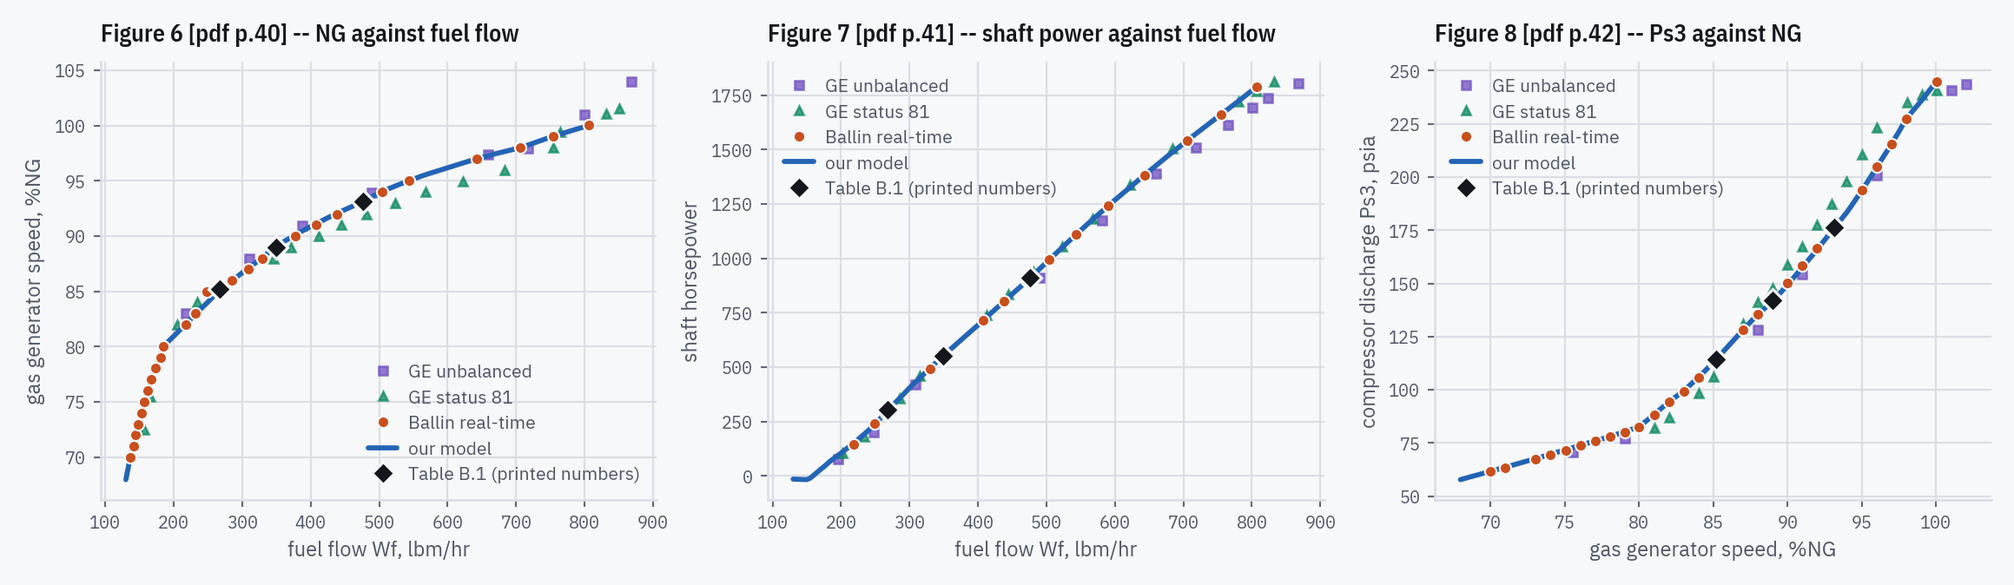
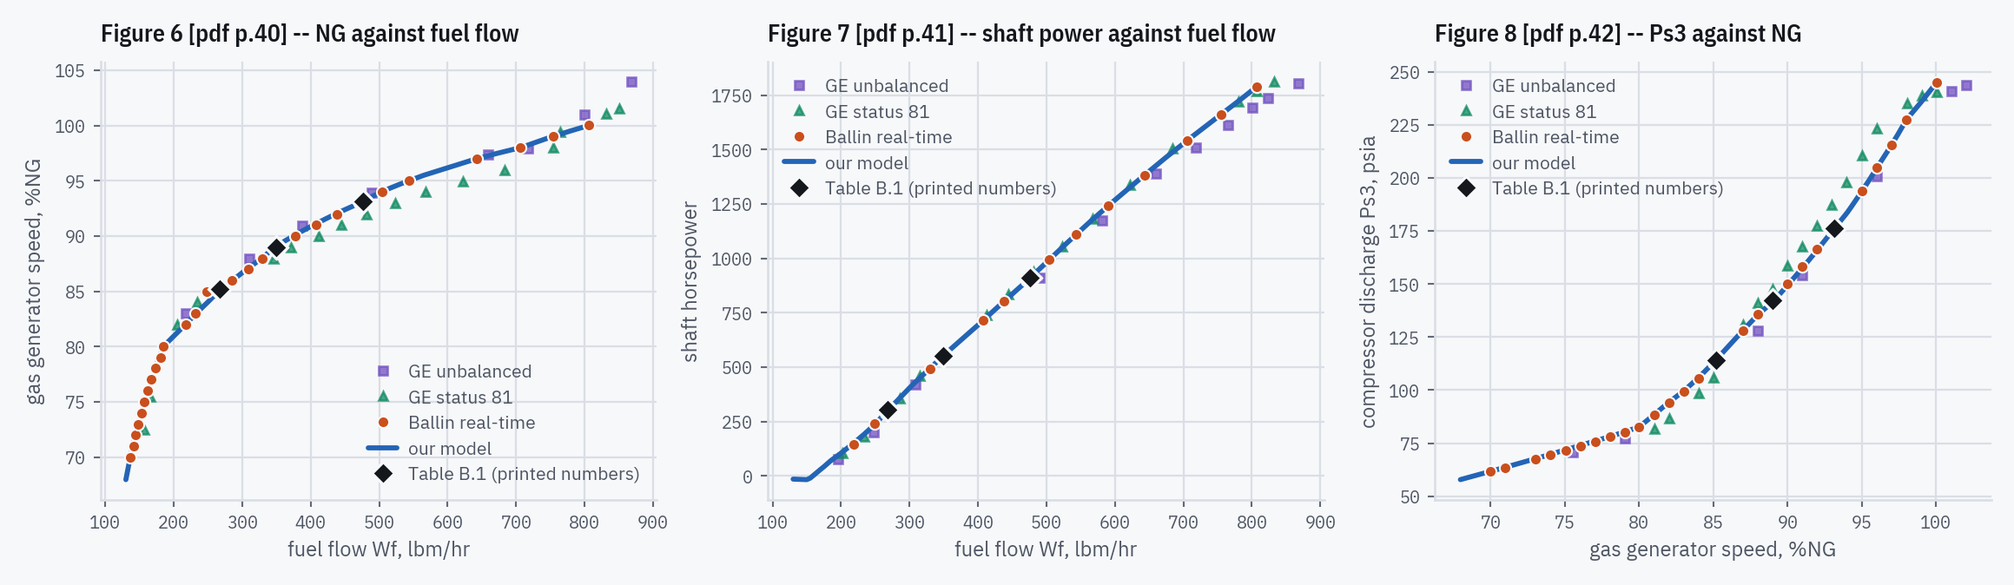
#77: f1 extends its top speed line by 0.1 point before it clamps
Ballin's own Figure 6 line ends at 806.30 lbm/hr and 100.0036 %NG, on Figure
A1's top line ("SYMBOL 11: 100% NGC", pdf p.56). Our trim reaches that line
at 806.20 lbm/hr; above it a clamped f1 invents equilibria, so the trim
refused the point. Last night's re-digitization moved it 806.16 -> 806.22 ->
806.30 lbm/hr, each step inside its read error, from just inside our reach
to just outside.

By the owner's decision, f1 (and f1_as_printed) now extend their top two
speed lines at constant beta up to maps.F1_TOP_ALLOWANCE_PCT = 0.1 point
above 100 %, then clamp as before; no other table does. Reads inside the
allowance count as "f1:above_top_line" (reported by extrapolated_tables,
accepted by trustworthy); trim.solve's speed bound moves with it. The point
needs 0.0018 point: ours 100.0018 vs Ballin's 100.0036 %NG.

Measured:
- tools/model_digest.py: every shared output of 10,228 bit-identical (new
  entries only for the top_allowance field and the imported Final).
- Figure 6: 28 -> 29 of 29 points, rms 0.2354 -> 0.2313 %NG, worst -1.018
  unchanged. Figure 7: 14 -> 15 of 15, rms 0.687 -> 0.664 %. Figure 8: 26 ->
  27 of 27, rms 0.266 -> 0.261 %.
- The site's operating line stays on the printed map (report.py skips
  f1:above_top_line trims), so its 100 %NG ceiling text still holds.

test_we_now_track_figure_6_across_its_whole_range now requires all points;
a new test_maps test pins the allowance's edges and that the fuel control's
[…]

diff --git a/site/index.html b/site/index.html
@@ -505,6 +505,15 @@ the metering valve:  WFMV = HMUSEL &times; PS3L.</div>
       past its last knot. Against the printed table it wins on some printed surfaces and loses
       on others, so the scores do not decide it. Kept because a scheme that invents
       extrapolation is wrong whatever it scores.</td></tr>
+    <tr><th scope="row">Speed above the compressor map
+      <span class="sub">f1, Figure A1</span></th>
+      <td>The top speed line is 100&nbsp;% NGC [pdf p.56], and &ldquo;the maximum gas generator
+      speed for which the model is valid is 100 percent&rdquo; [pdf p.39].</td>
+      <td><strong>A departure, closed by decision (#77).</strong> f1 extends its top two lines
+      a tenth of a point past 100&nbsp;% before it clamps; no other table does. Ballin&rsquo;s
+      own Figure&nbsp;6 line ends on that top line, at a fuel flow where ours has just reached
+      it, so without the allowance the top points of Figures&nbsp;6&ndash;8 could not be
+      compared. Nothing else moves: every other model output is bit-identical.</td></tr>
     <tr><th scope="row">Combustor efficiency
       <span class="sub">f6, Figure A6</span></th>
       <td>A curve with a visible slope, and no numeric table.</td>
@@ -627,7 +636,7 @@ the metering valve:  WFMV = HMUSEL &times; PS3L.</div>
   <div class="scroll"><table>
     <thead><tr><th scope="col">Figure</th><th scope="col">Points scored</th>
       <th scope="col">mean</th><th scope="col">rms</th><th scope="col">worst</th></tr></thead>
-    <tbody><tr><th scope="row">Figure 6<span class="sub">NG against fuel flow. Deviation in %NG points, not percent &mdash; an absolute difference on a speed already expressed as a percentage.</span></th><td class="mono">28 of 29</td><td class="mono">-0.008</td><td class="mono">0.235</td><td class="mono strong">-1.018 %NG</td></tr><tr><th scope="row">Figure 7<span class="sub">Shaft power against fuel flow. The low-power end is the worst, and it is the same end where Table B.1 and this figure disagree with <em>each other</em> by 1.3 %.</span></th><td class="mono">14 of 15</td><td class="mono">0.194</td><td class="mono">0.687</td><td class="mono strong">+2.175 %</td></tr><tr><th scope="row">Figure 8<span class="sub">Ps3 against NG. No fuel flow appears in it, so it cannot be rescued by a compensating fuel-path error.</span></th><td class="mono">26 of 27</td><td class="mono">0.067</td><td class="mono">0.266</td><td class="mono strong">+0.643 %</td></tr></tbody>
+    <tbody><tr><th scope="row">Figure 6<span class="sub">NG against fuel flow. Deviation in %NG points, not percent &mdash; an absolute difference on a speed already expressed as a percentage.</span></th><td class="mono">29 of 29</td><td class="mono">-0.008</td><td class="mono">0.231</td><td class="mono strong">-1.018 %NG</td></tr><tr><th scope="row">Figure 7<span class="sub">Shaft power against fuel flow. The low-power end is the worst, and it is the same end where Table B.1 and this figure disagree with <em>each other</em> by 1.3 %.</span></th><td class="mono">15 of 15</td><td class="mono">0.177</td><td class="mono">0.664</td><td class="mono strong">+2.175 %</td></tr><tr><th scope="row">Figure 8<span class="sub">Ps3 against NG. No fuel flow appears in it, so it cannot be rescued by a compensating fuel-path error.</span></th><td class="mono">27 of 27</td><td class="mono">0.066</td><td class="mono">0.261</td><td class="mono strong">+0.643 %</td></tr></tbody>
   </table></div>
   <div class="note-box"><h3>Where the report disagrees with itself</h3>
   <p>Table B.1 and Figures&nbsp;6&ndash;7 describe the same three operating points. Table B.1
@@ -726,7 +735,7 @@ the metering valve:  WFMV = HMUSEL &times; PS3L.</div>
 
 <section id="s9">
   <div class="shead"><span class="snum">9</span><h2>What is still open</h2>
-    <span class="eyebrow">2 open &middot; 0 partly closed &middot; 72 logged in total</span></div>
+    <span class="eyebrow">2 open &middot; 0 partly closed &middot; 73 logged in total</span></div>
   <div class="col">
   <p>Anything the report does not answer goes into a ledger,
   <code>docs/notes/open-questions.md</code>, rather than into the code as a guess. These are the

diff --git a/site/template.html b/site/template.html
@@ -510,6 +510,15 @@ the metering valve:  WFMV = HMUSEL &times; PS3L.</div>
       past its last knot. Against the printed table it wins on some printed surfaces and loses
       on others, so the scores do not decide it. Kept because a scheme that invents
       extrapolation is wrong whatever it scores.</td></tr>
+    <tr><th scope="row">Speed above the compressor map
+      <span class="sub">f1, Figure A1</span></th>
+      <td>The top speed line is 100&nbsp;% NGC [pdf p.56], and &ldquo;the maximum gas generator
+      speed for which the model is valid is 100 percent&rdquo; [pdf p.39].</td>
+      <td><strong>A departure, closed by decision (#77).</strong> f1 extends its top two lines
+      a tenth of a point past 100&nbsp;% before it clamps; no other table does. Ballin&rsquo;s
+      own Figure&nbsp;6 line ends on that top line, at a fuel flow where ours has just reached
+      it, so without the allowance the top points of Figures&nbsp;6&ndash;8 could not be
+      compared. Nothing else moves: every other model output is bit-identical.</td></tr>
     <tr><th scope="row">Combustor efficiency
       <span class="sub">f6, Figure A6</span></th>
       <td>A curve with a visible slope, and no numeric table.</td>

diff --git a/src/t700/maps.py b/src/t700/maps.py
@@ -21,6 +21,7 @@ from contextlib import contextmanager
 from dataclasses import dataclass, field
 from functools import cache
 from pathlib import Path
+from typing import Final
 
 import numpy as np
 
@@ -217,6 +218,9 @@ class SpeedMap:
     params: np.ndarray  # the parameter value of each line, ascending
     lines: list[Curve] = field(default_factory=list)
     source: str = ""
+    top_allowance: float = 0.0
+    """How far above the top line the top two lines are extended before the parameter
+    clamps. Zero for every map but `f1` (`F1_TOP_ALLOWANCE_PCT`, #77)."""
 
     def __post_init__(self) -> None:
         self.params.flags.writeable = False  # see Curve.__post_init__
@@ -224,7 +228,9 @@ class SpeedMap:
         self._pl: list[float] = self.params.tolist()
         self._plo: float = self._pl[0]
         self._phi: float = self._pl[-1]
+        self._top: float = self._phi + self.top_allowance
         self._param_key: str = f"{self.name}:parameter"
+        self._above_key: str = f"{self.name}:above_top_line"
         self._beta_grid: bool = len({line.x.size for line in self.lines}) == 1
 
     @property
@@ -248,20 +254,26 @@ class SpeedMap:
             )
         lo = self._plo
         hi = self._phi
-        if pq < lo or pq > hi:
-            _clamps[self._param_key] += 1
-        p = lo if pq < lo else (hi if pq > hi else float(pq))
-
         pl = self._pl
-        j = bisect_left(pl, p)
-        if j <= 0:
-            return float(self.lines[0](xq))
-        if j >= len(pl):
-            return float(self.lines[-1](xq))
-
-        p0 = pl[j - 1]
-        p1 = pl[j]
-        w = 0.0 if p1 == p0 else (p - p0) / (p1 - p0)
+        if hi < pq <= self._top:
+            # Inside the allowance: the top two lines, extended at constant beta (w > 1).
+            # Counted under its own key, which `extrapolated_tables` reports and
+            # `TrimResult.on_data` accepts.
+            _clamps[self._above_key] += 1
+            j = len(pl) - 1
+            w = (pq - pl[j - 1]) / (pl[j] - pl[j - 1])
+        else:
+            if pq < lo or pq > hi:
+                _clamps[self._param_key] += 1
+            p = lo if pq < lo else (hi if pq > hi else float(pq))
+            j = bisect_left(pl, p)
+            if j <= 0:
+                return float(self.lines[0](xq))
+            if j >= len(pl):
+                return float(self.lines[-1](xq))
+            p0 = pl[j - 1]
+            p1 = pl[j]
+            w = 0.0 if p1 == p0 else (p - p0) / (p1 - p0)
 
         if not self._beta_grid:  # unequal beta grids: no correspondence to interpolate on
             z0 = float(self.lines[j - 1](xq))
@@ -308,6 +320,7 @@ def load_speed_map(
     ycol: str,
     phys: Physics | None = None,
     directory: Path | None = None,
+    top_allowance: float = 0.0,
 ) -> SpeedMap:
     """Load a 2-D map whose rows are grouped by a parameter column.
 
@@ -330,7 +343,7 @@ def load_speed_map(
         lines.append(line)
     if phys is not None:
         CONDITIONING[name] = moved
-    return SpeedMap(name=name, params=params, lines=lines, source=src)
+    return SpeedMap(name=name, params=params, lines=lines, source=src, top_allowance=top_allowance)
 
 
 # --------------------------------------------------------------------------- physical conditioning
@@ -441,6 +454,15 @@ def load_curve(
 # Each loader is `functools.cache`d: the read-only tables load once.
 
 
+F1_TOP_ALLOWANCE_PCT: Final = 0.1
+"""Points of corrected speed above its 100 % top line that `f1` extrapolates before it
+clamps. Ours, not the report's (#77): Figure A1 stops at 100 % NGC [pdf p.56] and the model
+is valid to 100 percent [pdf p.39], but Ballin's own Figure 6 line ends on that top line at a
+fuel flow ours reaches the line just below, and above it a clamped `f1` invents equilibria
+(`TrimResult.on_data`). Fifty times what that point needs; a twentieth of the spacing of
+the top two printed lines."""
+
+
 @cache
 def f1() -> SpeedMap:
     """Compressor corrected mass flow, WA2c = f1(Ps3/P2, NGc). [pdf p.22, Eq. 7; Fig. A1]
@@ -466,6 +488,7 @@ def f1() -> SpeedMap:
             "reason it is applied to the raw one; the shape-preserving fit cannot "
             "introduce a rise the anchors do not have, so this conditions nothing.",
         ),
+        top_allowance=F1_TOP_ALLOWANCE_PCT,
     )
 
 
@@ -494,6 +517,7 @@ def f1_as_printed() -> SpeedMap:
             "digitized map already satisfies it at every one of 40 sampled ratios; "
             "`tests/test_maps.py` asserts that rather than conditioning it away.",
         ),
+        top_allowance=F1_TOP_ALLOWANCE_PCT,
     )
 
 

diff --git a/validation/test_steady_sweeps.py b/validation/test_steady_sweeps.py
@@ -117,19 +117,17 @@ def test_figure_7_shaft_power_tracks_except_at_the_lowest_power():
 
 
 def test_we_now_track_figure_6_across_its_whole_range():
-    """Figure 6's NG against fuel flow, over all its points but at most one.
+    """Figure 6's NG against fuel flow, over every one of its points.
 
     Trap: pdf p.40's frames are faint and tilted, and a digitizer that finds a frame by row
     fill anchors the axis on the denser caption instead, reading every speed high; that was
-    the whole of #46's low-power half (#64). One unreachable point is tolerated because
-    `f1`'s 100 % top speed line is a real boundary.
+    the whole of #46's low-power half (#64). Ballin's top point sits on `f1`'s 100 % top
+    line, which ours reaches at a hair less fuel; `maps.F1_TOP_ALLOWANCE_PCT` covers it (#77).
     """
     x, y = read_reference("fig06_realtime.csv", "wf_pph", "ng_pct")
     got = _ladder(x)
     missing = [v for v in x if v not in got]
-    assert len(missing) <= 1, f"more of Figure 6 is now unreachable: {missing}"
-    if missing:
-        assert missing[0] > 800.0, f"the unreachable point moved down to {missing[0]:.0f} lb/hr"
+    assert not missing, f"part of Figure 6 is now unreachable: {missing}"
     assert _ladder([800.0])[800.0]["ng_pct"] > 99.5, "we should still reach ~100 %NG"
 
     pairs = [(k, got[k]["ng_pct"] - v) for k, v in zip(x, y, strict=True) if k in got]

diff --git a/src/t700/trim.py b/src/t700/trim.py
@@ -50,7 +50,8 @@ class TrimResult:
         residual stops depending on the state, and Newton can drive it to zero where the
         model means nothing. `f1:parameter` (corrected speed itself off the map) is the
         decisive clamp but not the only one: other tables may still be extrapolated, see
-        `extrapolated_tables` and `fully_on_data`.
+        `extrapolated_tables` and `fully_on_data`. `f1:above_top_line`, a read inside
+        `maps.F1_TOP_ALLOWANCE_PCT`, is an extrapolation, not a clamp (#77).
         """
         return "f1:parameter" not in self.clamps_at_solution
 
@@ -196,8 +197,10 @@ def solve(
 
     # Clamps are counted in `maps.clamp_scope`s, so a caller's enclosing count survives.
     # The feasible set for NG is `f1`'s own speed range (its first and last printed speed
-    # line), carried into physical rpm through Eqs. 5-6.
+    # line) plus its small allowance above the top line (#77), carried into physical rpm
+    # through Eqs. 5-6.
     ngc_lo, ngc_hi = maps.f1().param_range
+    ngc_hi += maps.f1().top_allowance
     root_theta2 = float(np.sqrt(corrections.theta2(amb.t_amb_degR)))
     ng_lo = ngc_lo / 100.0 * c.NG_DES * root_theta2
     ng_hi = ngc_hi / 100.0 * c.NG_DES * root_theta2

diff --git a/tests/test_maps.py b/tests/test_maps.py
@@ -183,6 +183,27 @@ def test_f1_parameter_clamping_is_counted():
     maps.reset_clamps()
 
 
+def test_f1_extends_its_top_line_by_the_allowance_and_no_further():
+    """Above 100 % NGc, `f1` extends its top two lines up to `F1_TOP_ALLOWANCE_PCT` (#77):
+    continuous at the top line, still rising with speed, counted as an extrapolation rather
+    than a clamp. Beyond the allowance it clamps as before."""
+    m = maps.f1()
+    top = m.param_range[1]
+    edge = top + maps.F1_TOP_ALLOWANCE_PCT
+    with maps.clamp_scope() as inside:
+        at, just_above, at_edge = m(6.0, top), m(6.0, top + 1e-9), m(6.0, edge)
+    assert just_above == pytest.approx(at, abs=1e-9)
+    assert at_edge > at
+    assert "f1:parameter" not in inside and inside["f1:above_top_line"] == 2
+    with maps.clamp_scope() as beyond:
+        assert m(6.0, edge + 0.01) == at
+    assert beyond["f1:parameter"] == 1
+    from t700.control import schedules
+
+    # the only other speed maps, the fuel control's, keep their plain clamp
+    assert schedules.f_ec1().top_allowance == schedules.f_hm7().top_allowance == 0.0
+
+
 # --------------------------------------------------------------------------- physics
 
 

diff --git a/validation/report.py b/validation/report.py
@@ -835,7 +835,9 @@ def sheet_engine_steady() -> dict:
     for k in pph:
         wf = wf_pps_from_pph(float(k))
         r = trim.solve(wf, c.NP_DES, AMB, guess=None)
-        if not r.trustworthy:
+        # On the printed map only: the report claims validity to 100 %NG [pdf p.39], and
+        # f1's allowance above its top line is there to reach Ballin's own edge points (#77).
+        if not r.trustworthy or "f1:above_top_line" in r.clamps_at_solution:
             continue
         f = frame(r.state, wf, AMB)
         rows.append(

diff --git a/docs/notes/open-questions.md b/docs/notes/open-questions.md
@@ -10,7 +10,7 @@ gives unless it points to `site/assets/report.json`.
 > 14-17, rows 18-21 are unused, and the validation block sits at 34-41 so that existing
 > cross-references still resolve. Cite a row by number *and* a few words of its content.
 
-> **Tally as of 2026-10-13: 72 logged — 70 closed, 0 partly closed, 2 open.** Open: #60 `f1`
+> **Tally as of 2026-10-13: 73 logged — 71 closed, 0 partly closed, 2 open.** Open: #60 `f1`
 > on a beta grid of ours (a deliberate departure) and #74 the speed-line family that admits no
 > smooth surface.
 >
@@ -92,3 +92,4 @@ gives unless it points to `site/assets/report.json`.
 | 74 | **The eleven digitized speed lines of Figure A1 do not form a smooth family, and no smooth surface fits them.** Fitting all 55 sloped markers at once with the drop `D(NGc)` and a shape parameter `α(NGc)` as polynomials reaches **χ²/dof 4.67 at best** over every order from 3 to 9 parameters — rms 2.0 σ, worst 6.5 σ against the file's own quoted error. Leave-one-line-out does not rescue it: dropping the worst line (89 %) reaches 3.53, and restricting to 80–100 %, 87–100 % or 80–94 % is worse. Per line: `α` reads 0.00 0.72 0.76 0.78 0.62 0.66 0.00 0.38 0.45 0.05 0.42 with three lines pinned at a bound, and the knee-to-surge drop reads 0.273 at 87 % against 0.402 at 89 % — adjacent lines, 11 σ apart in an offset-free quantity. The flat choked level, the best-measured number on the figure at σ 0.0037 lbm/sec, sits **3.4–4.3 σ rms** off the most flexible smooth curve that can be justified. | Any cross-line smoothing of `f1`, and the interpretation of #73 | Measured 2026-09-15. The 87 %/89 % anomaly survives a completely independent estimator — a generative glyph fit, stable to 0.36 px across six random restarts — and the traced line as well, so it is in the printed figure, not in our reading of it | **open.** Either the quoted uncertainty understates the true error by 2–4× in the cross-line direction, or Ballin's own figure is not internally consistent. This is why a per-line smoothing cannot help `A(T41,NG)`: it cleans each line and leaves the family as it was. **2026-10-12:** the level trim lands 0.07 %NGc above the 89 % line, so the 87/89 incoherence enters Appendix B there directly: the one-sided NG derivatives differ by 20 % (dT41_ns/dNG) and 50 % (dNGdot/dNG), and B9 sits between them (#73). At the report's ±2 % step (#56) the secant straddles the line and level stops being the outlier; the incoherence itself is untouched. |
 | 75 | **Eq. 26 / Eq. 40: in the real-time frame, is Q_GT's ΔH_GT evaluated at the previous frame's P45 or at the solved one? The report is silent.** `realtime.step` evaluates ΔH_GT = θ41·f7(P45/P41) (Eq. 26) at the previous frame's P45, because T45 and θ45 follow from it (Eqs. 27-31) and the Eq. 80 iteration needs θ45 frozen: "The numerator is a constant over the iteration" [pdf p.37]. That same ΔH_GT then feeds Q_GT (Eq. 40). Whether Ballin's Q_GT re-evaluated ΔH_GT at the P45 the iteration returns is not said. | The real-time frame's gas generator torque, and so every open-loop transient (Figs. 9 and 10) | Eq. 26 pdf p.24; Eq. 40 pdf p.25; Eq. 80 and the iteration prose pdf p.37, with the real-time section from pdf p.36; all read from the page images | **closed 2026-10-13 — by decision: the previous frame's P45, as coded.** The report does not say: no flow chart or order of steps anywhere (pdf pp.19-27, 35-39, 47, 54 read from the images). Its one hint leans this way: "Present implementation restrictions at Ames require a minimum amount of multiple-pass coding or iteration and the use of the Ames simulation-standard function table processor routines as much as possible" [pdf p.35], and re-evaluating needs a second f7 look-up after the solve. Ballin's own model lines decide it, measured 2026-10-13 through the tests' own metrics: on Figure 9 the whole-curve mean is 0.85 % as coded against 1.40 % re-evaluated, and the 63 % NG rise takes 0.324 against 0.366 s (Ballin 0.319 s), a difference 2.5-3.3 times the read error; Figure 10 prefers re-evaluating slightly (2.30 against 2.44 %), by less than its read error; all ten panels 1.64 against 1.85 %. Trims are identical either way. Caveat: the head start the coded reading gives in the first frames after the step may be compensating something else that is slow; that cannot be shown either way. |
 | 76 | **pdf p.32 contradicts itself on F2's sixth column.** The state vector x̄ printed on the page has T41 as its sixth entry, and F2(6,6) = −1/τ2 is the coefficient of ΔT41 in Eq. 64 [pdf p.31]; but the five entries above it in F2's sixth column are labelled ∂(·)/∂T41_ns (∂ṄG/∂T41_ns down to ∂Ṗ45/∂T41_ns). Is column 6 a derivative with respect to T41 or to T41_ns? | The 6-DOF heat-sink linear model (Eq. 65) and the Appendix B comparisons built on it | `docs/extracted/p-032.png`, and the column re-rendered at 600 dpi, 2026-10-13; Eqs. 63-65 on pdf p.31. `docs/notes/body-realtime.md` (§4.6) transcribes the labels as printed without flagging the clash, and says the `ns` subscript is on "all six entries" where the sixth is −1/τ2 | **closed 2026-10-13 — a label slip in the report: column 6 is with respect to T41, and `linear.py` already reads it so.** Only that reading fits the state vector, Eq. 64 (F2(6,6) = −1/τ2 is ΔT41's coefficient) and the downstream equations, which take T41 (Eq. 24 pdf p.23, Eq. 43 pdf p.25). The printed numbers agree: the 6-DOF column-6 elements in the NG, NP, P41 and P45 rows are 0.995-1.001 of ours at the three trims. Read literally (T41 held, T41_ns perturbed) the column is zero and the heat sink would not feed back, against pdf p.33's "significantly slowed"; perturbing T41_ns with the metal temperature held gives 0.58-0.64 of the printed values. Held by `validation/test_appendix_b_elements.py::test_six_dof_t41_column_is_close`. |
+| 77 | **Figure 6's top point needs `f1` a hair above its 100 % top speed line.** Ballin's own Figure 6 line ends at 806.30 lbm/hr and 100.004 %NG, on Figure A1's top line; our trim reaches that line at 806.20 lbm/hr, and above it a clamped `f1` invents equilibria, so the trim refused the point (and the top points of Figures 7 and 8). | Figures 6-8 at their top points; any trim or transient between 100 and 100.1 %NGc | Figure A1 [pdf p.56]: the top printed line is "SYMBOL 11: 100% NGC"; pdf p.39: "the maximum gas generator speed for which the model is valid is 100 percent" | **closed 2026-10-13 — by decision: `f1` extends its top two lines up to 0.1 point above 100 % before it clamps (`maps.F1_TOP_ALLOWANCE_PCT`); no other table does.** A departure, recorded: the report prints no speed above 100 %. The point needs 0.0018 point (ours 100.0018 against Ballin's 100.0036 %NG). The trim's speed bound moves with the allowance; a read inside it is counted as `f1:above_top_line`, which `extrapolated_tables` reports and `trustworthy` accepts. Effect, measured: Figure 6 reaches all 29 points (rms 0.235 -> 0.231 %NG, worst unchanged), Figure 7 all 15, Figure 8 all 27; every other model output bit-identical (`tools/model_digest.py`). The site's operating line stays on the printed map. `f3` and `f10` also end at 100 % and still clamp above it, which refuses nothing. |

diff --git a/README.md b/README.md
@@ -27,9 +27,9 @@ by re-running the model; `tests/test_live_numbers.py` fails if one is no longer 
 | **Table 1, printed eigenvalues** | all **27**<!--rj:eigenvalues.notes.table_1_stats.n--> modes across three model variants: **rms 1.9 %<!--rj:eigenvalues.notes.table_1_stats.rms-->**, worst 4.7 %<!--rj:eigenvalues.notes.table_1_stats.worst--> (ours more damped) on the 2-DOF NG mode at hover, modes paired by dominant state, with the report's own ±2 % extraction step [pdf p.28] |
 | **Appendix B, 297 printed elements** | zero structure exact; all 206 non-zero elements compared one by one. `A` rms 6.3 %<!--rj:appendix_b.A.rms--> over 158<!--rj:appendix_b.A.n-->, `b` rms 6.4 %<!--rj:appendix_b.b.rms--> over 42<!--rj:appendix_b.b.n-->; the heat-sink rows carry the report's own TC_T41 inconsistency (open question #31) |
 | **Closed loop vs Table B.1** | **worst 0.25 %<!--rj:closed_loop.worst-->** over NG, NP, Wf, Ps3 and shaft power at three trims, **with fuel flow as an output**, averaged over the governor's own limit cycle |
-| Figure 6, NG vs fuel flow | mean -0.01 %NG<!--rj:steady.figure_6.mean-->, rms 0.24<!--rj:steady.figure_6.rms-->, worst −1.02<!--rj:steady.figure_6.worst--> over 28<!--rj:steady.figure_6.n--> of 29<!--rj:steady.figure_6.printed_points--> printed points |
-| Figure 7, shaft power vs fuel flow | mean +0.19 %<!--rj:steady.figure_7.mean-->, rms 0.69 %<!--rj:steady.figure_7.rms-->, worst +2.17<!--rj:steady.figure_7.worst--> over 14<!--rj:steady.figure_7.n--> of 15<!--rj:steady.figure_7.printed_points--> |
-| Figure 8, Ps3 vs NG | mean +0.07 %<!--rj:steady.figure_8.mean-->, rms 0.27 %<!--rj:steady.figure_8.rms-->, worst +0.64<!--rj:steady.figure_8.worst--> over 26<!--rj:steady.figure_8.n--> of 27<!--rj:steady.figure_8.printed_points--> |
+| Figure 6, NG vs fuel flow | mean -0.01 %NG<!--rj:steady.figure_6.mean-->, rms 0.23<!--rj:steady.figure_6.rms-->, worst −1.02<!--rj:steady.figure_6.worst--> over 29<!--rj:steady.figure_6.n--> of 29<!--rj:steady.figure_6.printed_points--> printed points |
+| Figure 7, shaft power vs fuel flow | mean +0.18 %<!--rj:steady.figure_7.mean-->, rms 0.66 %<!--rj:steady.figure_7.rms-->, worst +2.17<!--rj:steady.figure_7.worst--> over 15<!--rj:steady.figure_7.n--> of 15<!--rj:steady.figure_7.printed_points--> |
+| Figure 8, Ps3 vs NG | mean +0.07 %<!--rj:steady.figure_8.mean-->, rms 0.26 %<!--rj:steady.figure_8.rms-->, worst +0.64<!--rj:steady.figure_8.worst--> over 27<!--rj:steady.figure_8.n--> of 27<!--rj:steady.figure_8.printed_points--> |
 | Figures 9 and 10, fuel transients | whole-curve rms **0.62<!--rj:whole_curve_summary.min-->–3.80 %<!--rj:whole_curve_summary.max-->** of each panel's excursion, mean 1.64 %<!--rj:whole_curve_summary.mean--> over ten panels |
 | The report's own claim about Figure 6 | reproduced: in the 81–86 %NG band the report names, we overestimate fuel by **+6.34 %<!--rj:fuel_overestimate.ours_peak_pct-->**, against its own line's +5.98 %<!--rj:fuel_overestimate.ballin_peak_pct--> and its printed "as much as five percent" [pdf p.39] |
 | Frame cost | tens of microseconds per frame, against the report's 10 ms budget |
@@ -83,7 +83,7 @@ blade-element simulation, which the report consumes and does not contain; Table 
 produced with functions from a different engine and is evidence of method, never pass/fail;
 and nothing above 100 %NG is claimed, because Ballin claims nothing there either [pdf p.39].
 
-As of 2026-10-13, `docs/notes/open-questions.md` has logged 72 questions: 70 closed, 2 open
+As of 2026-10-13, `docs/notes/open-questions.md` has logged 73 questions: 71 closed, 2 open
 (#60, #74). Each row states what was asked and what was decided.
 
 ## Running it
